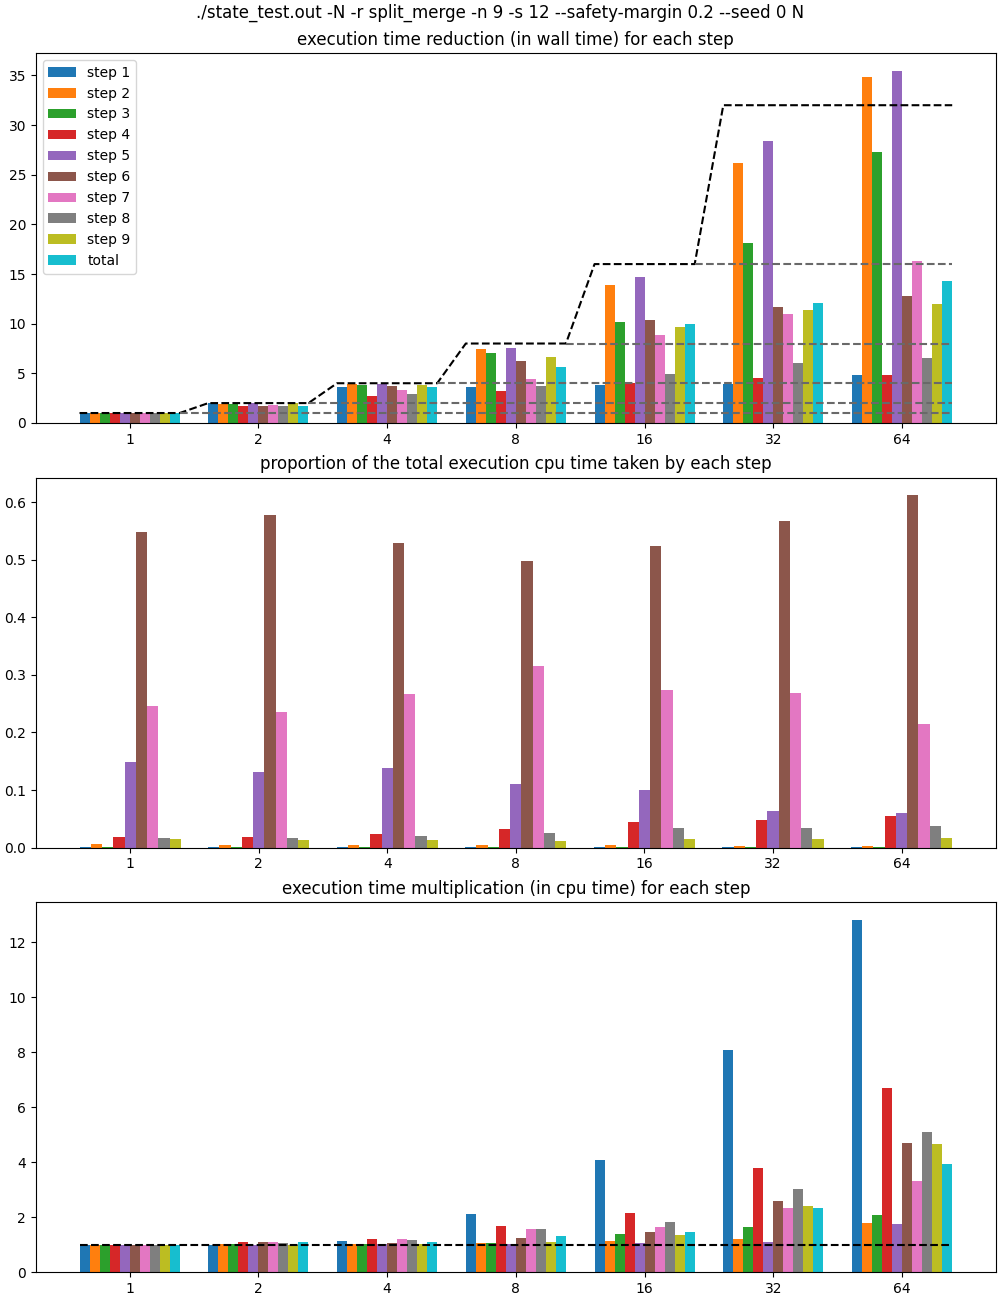
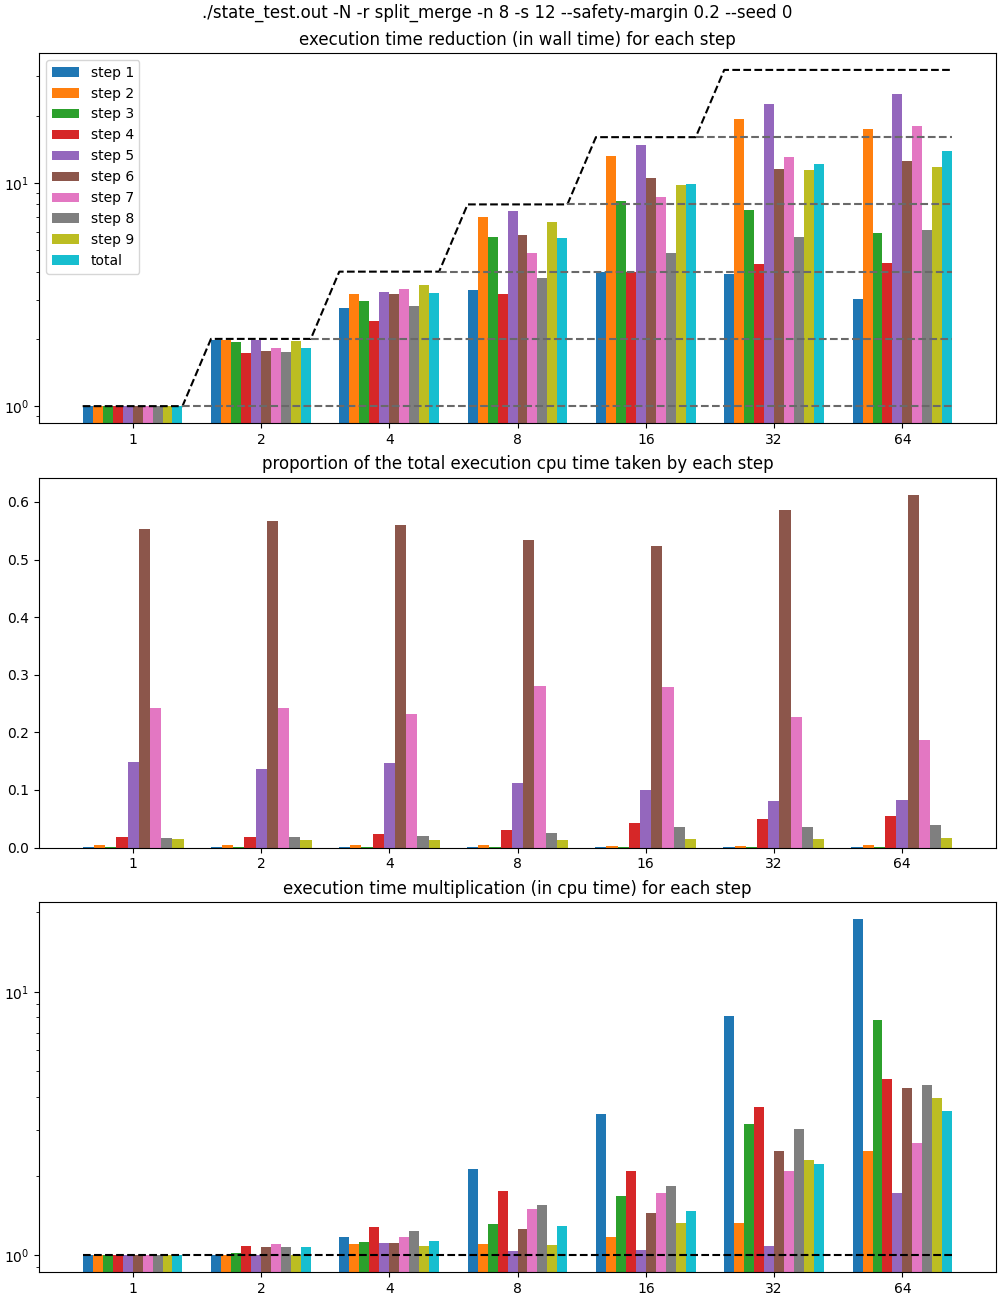
added graphs

diff --git a/validations/repartition.py b/validations/repartition.py
@@ -1,21 +1,26 @@
-#!/usr/bin/python3
+#!/usr/bin/python3 -W ignore
 
 from matplotlib import pyplot as plt 
 import numpy as np
 import random
 from scipy.interpolate import interp1d
 
-n_iter = 5000
-n_graph = 10000
-n_select = 4000
+n_iter = 1000
+n_graph = 2000
 n_smooth = 20
 
+"""
+useful functions :
+"""
+
+# generator for a random polynomial distribution
 def poly(lst, x):
 	if len(lst) == 1:
 		return lst[0]
 	else:
 		return poly(lst[1:], x)*x + lst[0]
 
+# linear smoothing for plotting
 def smooth(y):
 	smoothed_y = np.zeros(len(y))
 
@@ -27,6 +32,22 @@ def smooth(y):
 
 	return smoothed_y
 
+# generating an occurence list from a selecting method and a random distribution (List)
+def generate(selector, List, n_select):
+	occurence = np.zeros(random_list.shape)
+
+	for i in range(n_iter):
+		occurence[selector(List, n_select)] += 1
+
+	# normalizeing occurences so they idely match the distribution
+	return occurence / n_iter / n_select
+
+
+
+"""
+tested method of selection :
+"""
+
 def selector_1(List, n):
 	random_selector = np.random.rand(len(List))
 	random_selector = np.log( - np.log(random_selector) / List)
@@ -34,6 +55,85 @@ def selector_1(List, n):
 	idx = np.argpartition(random_selector, n)
 	return idx[:n]
 
+
+
+"""
+generating the random distribution :
+"""
+
+# starting with an empty list
+random_list = np.ndarray([])
+
+# adding uniform distributions
+for rate in [1, 2, 4]:
+	distribution = np.random.rand(n_graph) * rate
+	distribution.sort()
+	random_list = np.append(random_list, distribution)
+
+# adding exponential distribution
+for rate in [1, 2, 4]:
+	distribution = -np.log((np.random.rand(n_graph)*(1 - 0.05) + 0.05)) / rate
+	distribution.sort()
+	random_list = np.append(random_list, distribution)
+
+# adding an inverse polynomial distribution
+distribution = poly(np.random.rand(7), np.random.rand(3*n_graph))
+distribution.sort()
+random_list = np.append(random_list, distribution)
+
+# normalizeing the distribution
+random_list /= np.sum(random_list)
+
+
+
+"""
+plotting the distribution and occurences for different proportions of graph selected :
+"""
+
+fig = plt.figure(figsize=(10, 10), constrained_layout=True)
+ax = fig.add_subplot(1, 1, 1)
+
+# setting up the frame
+ax.set_ylabel("probability")
+ax.set_yticks([])
+ax.set_xticks([])
+
+# plotting occurences for different proportions of graph selected
+for proportion in [.1, .25, .5]:
+	n_select = int(len(random_list) * proportion)
+	ax.plot(smooth(generate(selector_1, random_list, n_select)), label=f"log(log()), { proportion * 100 }% selected", linewidth=2)
+	#ax1.plot(smooth(generate(selector_2, random_list)), label="histograms")
+
+# plotting the initial ditribution
+ax.plot(random_list, "r--", label="base distribution", linewidth=3)
+
+# adding separators for the different distributions
+ax.set_ylim(ax.get_ylim())
+ax.plot([3*n_graph, 3*n_graph], [-1, 1], "k--", linewidth=4)
+ax.plot([6*n_graph, 6*n_graph], [-1, 1], "k--", linewidth=4)
+
+# adding text to name different sections
+y_max = ax.get_ylim()[1]
+args = {
+	"horizontalalignment" : 'center',
+	"verticalalignment" : 'center',
+	"bbox" : {
+		"facecolor" : 'white',
+		"alpha" : 0.5,
+	}
+}
+ax.text(1.5*n_graph, y_max*.75, "linear distributions", **args)
+ax.text(4.5*n_graph, y_max*.75, "exponential distributions", **args)
+ax.text(7.5*n_graph, y_max*.75, "inverse polynomial distribution", **args)
+
+fig.legend()
+
+# saving the figure
+fig.suptitle(f'random repartition and occurences')
+fig.savefig("plots/repartition.jpg")
+
+"""
+# "histograms" selector
 def selector_2(List, n):
 	n_zone = n // 10
 	idx = []
@@ -71,34 +171,4 @@ def selector_2(List, n):
 			start = end
 
 	return np.array(idx)
-
-def generate(selector, List):
-	occurence = np.zeros(random_list.shape)
-
-	for i in range(n_iter):
-		occurence[selector(List, n_select)] += 1
-
-	return occurence / n_iter
-
-#random_list = np.concatenate((np.random.rand(n_graph), np.random.rand(n_graph) * 2, np.random.rand(n_graph) * 3))
-#random_list = np.concatenate((np.random.rand(n_graph), np.random.rand(n_graph) * 2, -np.log(np.random.rand(n_graph))))
-#x = 0.2; random_list = -np.log(np.random.rand(3*n_graph)*(1 - x) + x)
-random_list = poly(np.random.rand(7), np.random.rand(3*n_graph))
-
-random_list /= -np.sum(random_list)
-random_list.sort()
-random_list = -random_list
-
-fig = plt.figure()
-ax1 = fig.add_subplot(1, 1, 1)
-
-ax1.plot(smooth(generate(selector_1, random_list)), label="log(log())")
-#ax1.plot(smooth(generate(selector_2, random_list)), label="histograms")
-
-ax2 = ax1.twinx()
-ax2.plot(random_list, c="r")
-
-fig.legend()
-
-fig.suptitle(f'random repartition and occurences')
-fig.savefig("plots/repartition.jpg")
+"""

diff --git a/v6/src/state.hpp b/v6/src/state.hpp
@@ -744,14 +744,17 @@ private:
 		/* allow nested parallism for __gnu_parallel inside omp single */
 		omp_set_nested(3);
 
-		/* !!!!!!!!!!!!!!!!
-		step (1) 
-		 !!!!!!!!!!!!!!!! */
-
-		MID_STEP_FUNCTION(0);
-
 		#pragma omp parallel
 		{
+			#pragma omp single
+			{
+				MID_STEP_FUNCTION(0)
+			}
+			
+			/* !!!!!!!!!!!!!!!!
+			step (1) 
+			 !!!!!!!!!!!!!!!! */
+
 			unsigned int thread_id = omp_get_thread_num();
 
 			if (normalize) {
@@ -777,21 +780,20 @@ private:
 				total_proba = precision::sqrt(total_proba);
 				
 				/* normalize by divinding magnitudes by the square root of the total probability */
-				#pragma omp for schedule(static)
-				for (unsigned int gid = 0; gid < current_iteration.num_graphs; ++gid) {
+				for (unsigned int gid = begin; gid < end; ++gid) {
 					current_iteration.real[gid] /= total_proba;
 					current_iteration.imag[gid] /= total_proba;
 				}
 			}
 
+			#pragma omp single
+			{
+				MID_STEP_FUNCTION(1)
+			}
+
 			/* !!!!!!!!!!!!!!!!
 			step (2) 
 			 !!!!!!!!!!!!!!!! */
-
-			#pragma omp single
-			{
-				MID_STEP_FUNCTION(1);
-			}
 
 			/* get operations for each node of each graph */
 			#pragma omp for schedule(static)
@@ -803,27 +805,27 @@ private:
 					current_iteration.set_operation(gid, node, rule.operation(current_iteration, gid, node));
 			}
 
+			#pragma omp single
+			{
+				MID_STEP_FUNCTION(2)
+			}
+
 			/* !!!!!!!!!!!!!!!!
 			step (3) 
 			 !!!!!!!!!!!!!!!! */
-
-			#pragma omp single
-			{
-				MID_STEP_FUNCTION(2);
-			}
 
 			/* get the number of child for each graph */
 			#pragma omp for schedule(static)
 			for (unsigned int gid = 0; gid < current_iteration.num_graphs; ++gid)
 				current_iteration.num_childs[gid + 1] = rule.num_childs(current_iteration, gid);
 
-			/* !!!!!!!!!!!!!!!!
-			step (4) 
-			 !!!!!!!!!!!!!!!! */
-
 			#pragma omp single
 			{
-				MID_STEP_FUNCTION(3);
+				MID_STEP_FUNCTION(3)
+
+				/* !!!!!!!!!!!!!!!!
+				step (4) 
+				 !!!!!!!!!!!!!!!! */
 
 				/* partial sum of number of graph */
 				current_iteration.num_childs[0] = 0;
@@ -847,14 +849,14 @@ private:
 					0);
 			}
 
+			#pragma omp single
+			{
+				MID_STEP_FUNCTION(4)
+			}
+
 			/* !!!!!!!!!!!!!!!!
 			step (5) 
 			 !!!!!!!!!!!!!!!! */
-
-			#pragma omp single
-			{
-				MID_STEP_FUNCTION(4);
-			}
 
 			/* symbolic iteration :
 				compute properties of each possible future graph */ 
@@ -865,14 +867,14 @@ private:
 					symbolic_num_nodes[gid], symbolic_num_sub_nodes[gid],
 					current_iteration, parent_gid[gid], child_id[gid]);
 
+			#pragma omp single
+			{
+				MID_STEP_FUNCTION(5)
+			}
+
 			/* !!!!!!!!!!!!!!!!
 			step (6) 
 			 !!!!!!!!!!!!!!!! */
-
-			#pragma omp single
-			{
-				MID_STEP_FUNCTION(5);
-			}
 
 			/* no need to compute interference if we are in the probabilist case */
 			if (!rule.probabilist) {
@@ -973,12 +975,12 @@ private:
 						});
 
 					long int next_num_graphs = std::distance(next_gid.begin(), partitioned_it);
-							
+					
+					MID_STEP_FUNCTION(6)
+
 					/* !!!!!!!!!!!!!!!!
 					step (7) 
 					 !!!!!!!!!!!!!!!! */
-
-					MID_STEP_FUNCTION(6);
 
 					if (overwrite_max_num_graphs)
 						max_num_graphs = get_max_num_graphs();
@@ -1005,11 +1007,11 @@ private:
 
 					next_iteration.num_graphs = next_num_graphs;
 
+					MID_STEP_FUNCTION(7)
+
 					/* !!!!!!!!!!!!!!!!
 					step (8) 
 					 !!!!!!!!!!!!!!!! */
-
-					MID_STEP_FUNCTION(7);
 
 					/* sort to make memory access more continuous */
 					__gnu_parallel::sort(next_gid.begin(), next_gid.begin() + next_iteration.num_graphs);
@@ -1020,8 +1022,8 @@ private:
 			} else
 				#pragma omp single
 				{
-					MID_STEP_FUNCTION(6);
-					MID_STEP_FUNCTION(7);
+					MID_STEP_FUNCTION(6)
+					MID_STEP_FUNCTION(7)
 
 					/* same number of graphs for a probabilist simulation */
 					next_iteration.num_graphs = symbolic_num_graphs;
@@ -1054,11 +1056,12 @@ private:
 				next_iteration.resize_num_nodes(next_iteration.node_begin[next_iteration.num_graphs]);
 				next_iteration.resize_num_sub_nodes(next_iteration.sub_node_begin[next_iteration.num_graphs]);
 
+
+				MID_STEP_FUNCTION(8)
+
 				/* !!!!!!!!!!!!!!!!
 				step (9) 
 				 !!!!!!!!!!!!!!!! */
-
-				MID_STEP_FUNCTION(8);
 			}
 
 			#pragma omp for schedule(static)
@@ -1067,9 +1070,12 @@ private:
 				/* populate graphs */
 				rule.populate_new_graph(current_iteration, next_iteration, gid, parent_gid[id], child_id[id]);
 			}
-		}
 
-		MID_STEP_FUNCTION(9);
+			#pragma omp single
+			{
+				MID_STEP_FUNCTION(9)
+			}
+		}
 
 		/* !!!!!!!!!!!!!!!!
 		step (10) 

diff --git a/v6/scalling_test/grapher.py b/v6/scalling_test/grapher.py
@@ -83,6 +83,7 @@ bars = ax1.bar(bar_starting_position + bar_width*proportions.shape[1], scaling[:
 ax1.plot(x_points[0], y_points[0], "k--")
 for i in range(1, len(x_points)):
 	ax1.plot(x_points[i], y_points[i], "--", color="dimgrey")
+ax1.set_yscale('log')
 
 ax1.legend()
 
@@ -109,7 +110,7 @@ for step in range(scaling.shape[1]):
 	ax3.bar(bar_starting_position + bar_width*step, inverse_scaling[:, step], width=bar_width, label=f'step { step + 1 }')
 
 ax3.plot([total_begin, total_end], [1, 1], "k--")
-
+ax3.set_yscale('log')
 
 
 # saving fig
